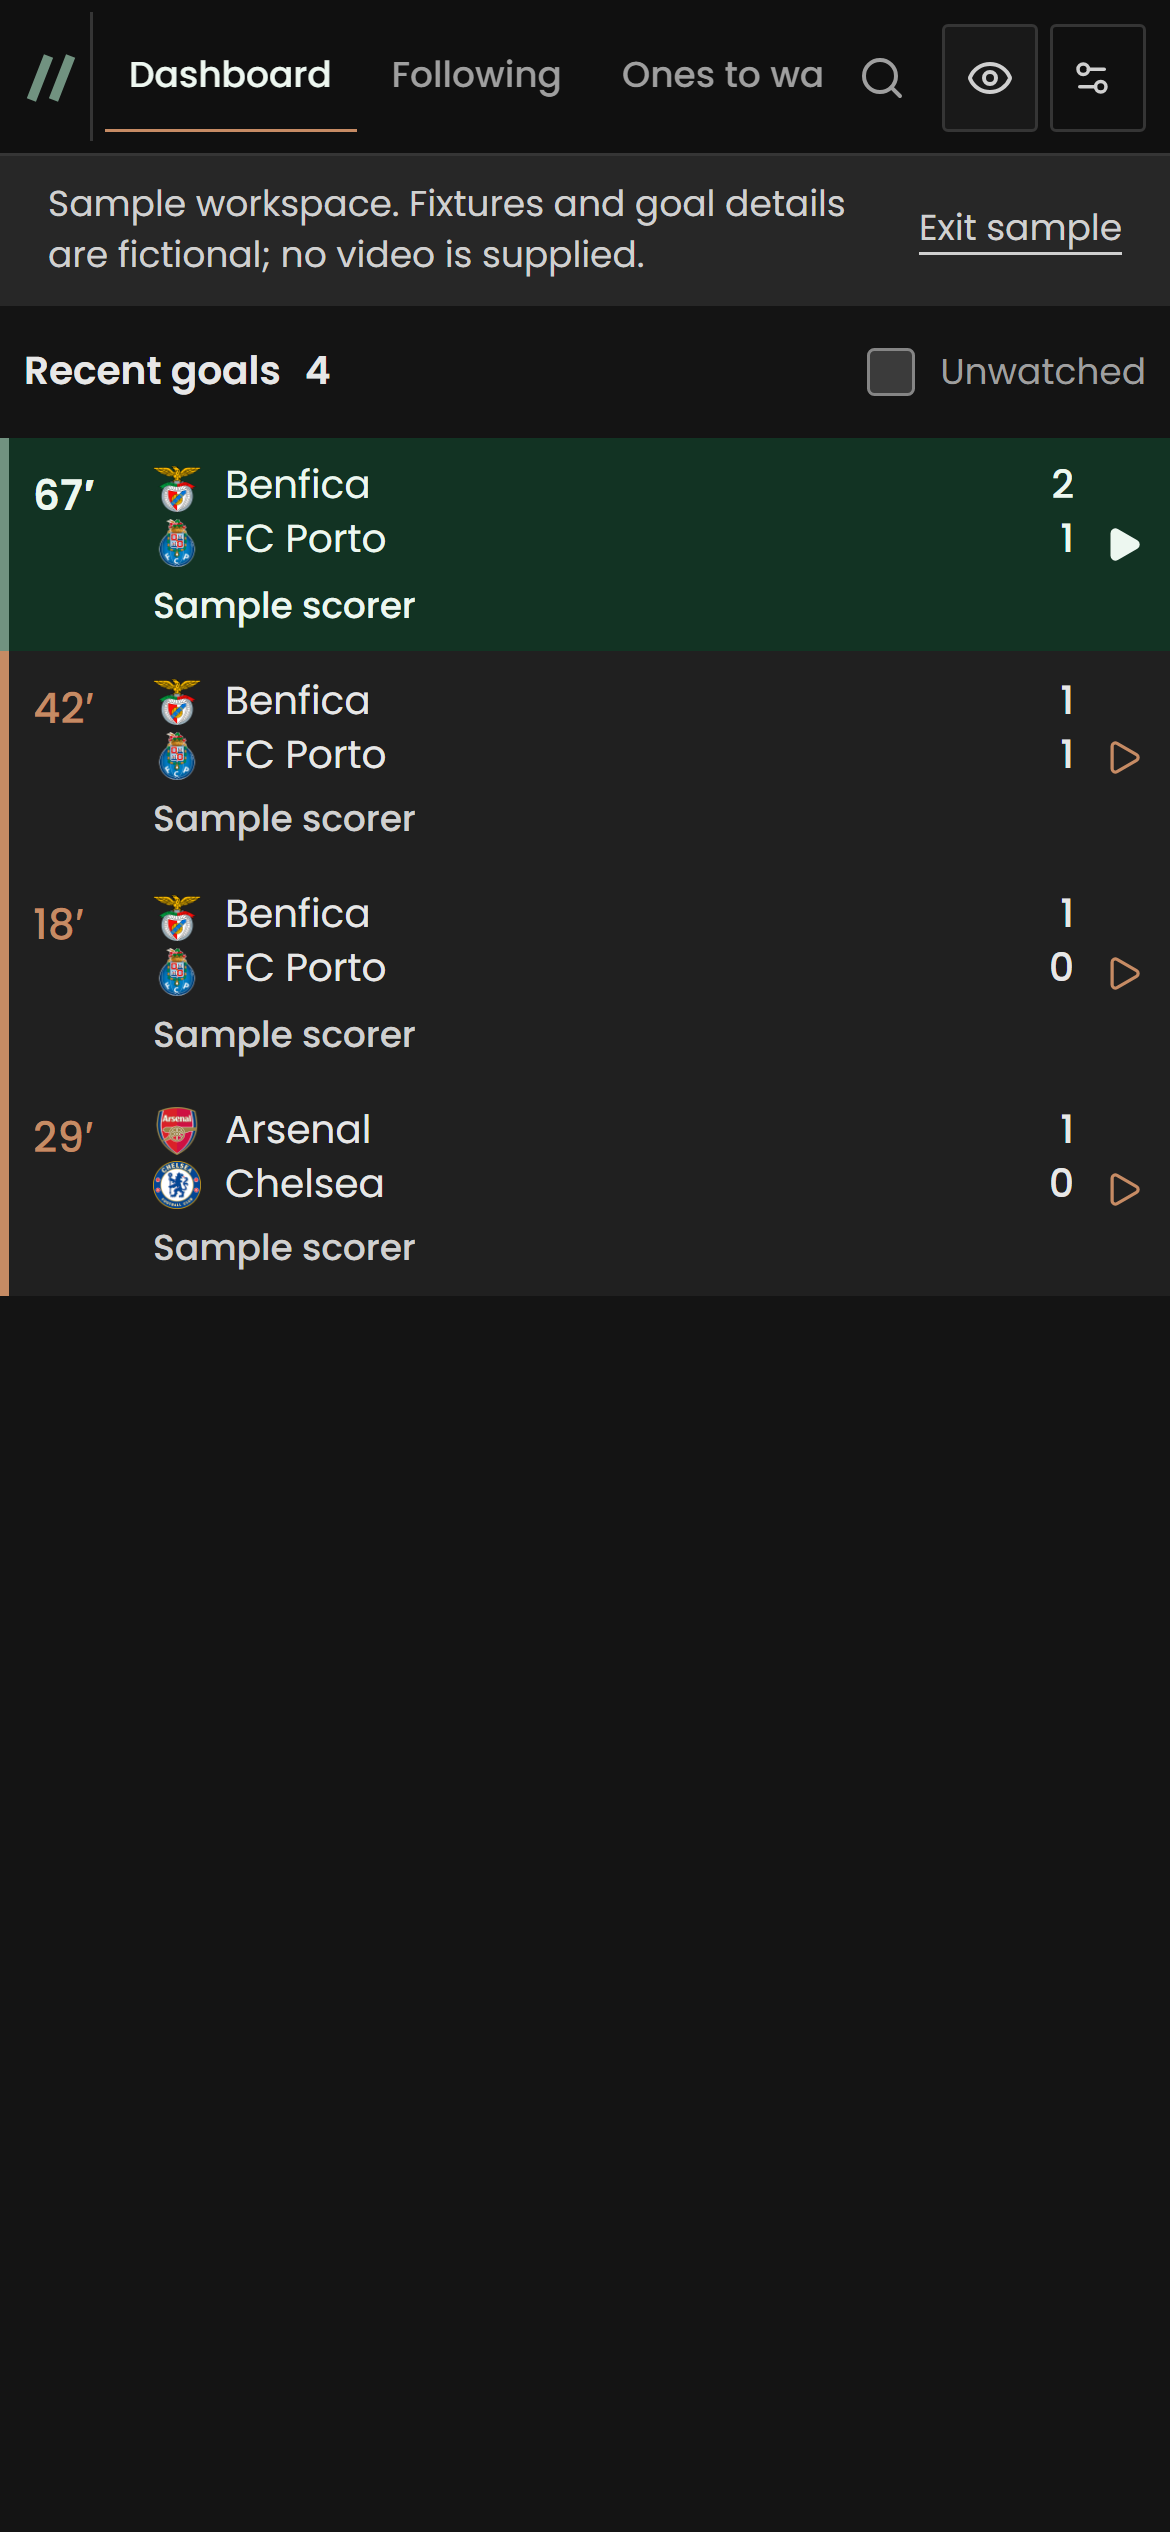
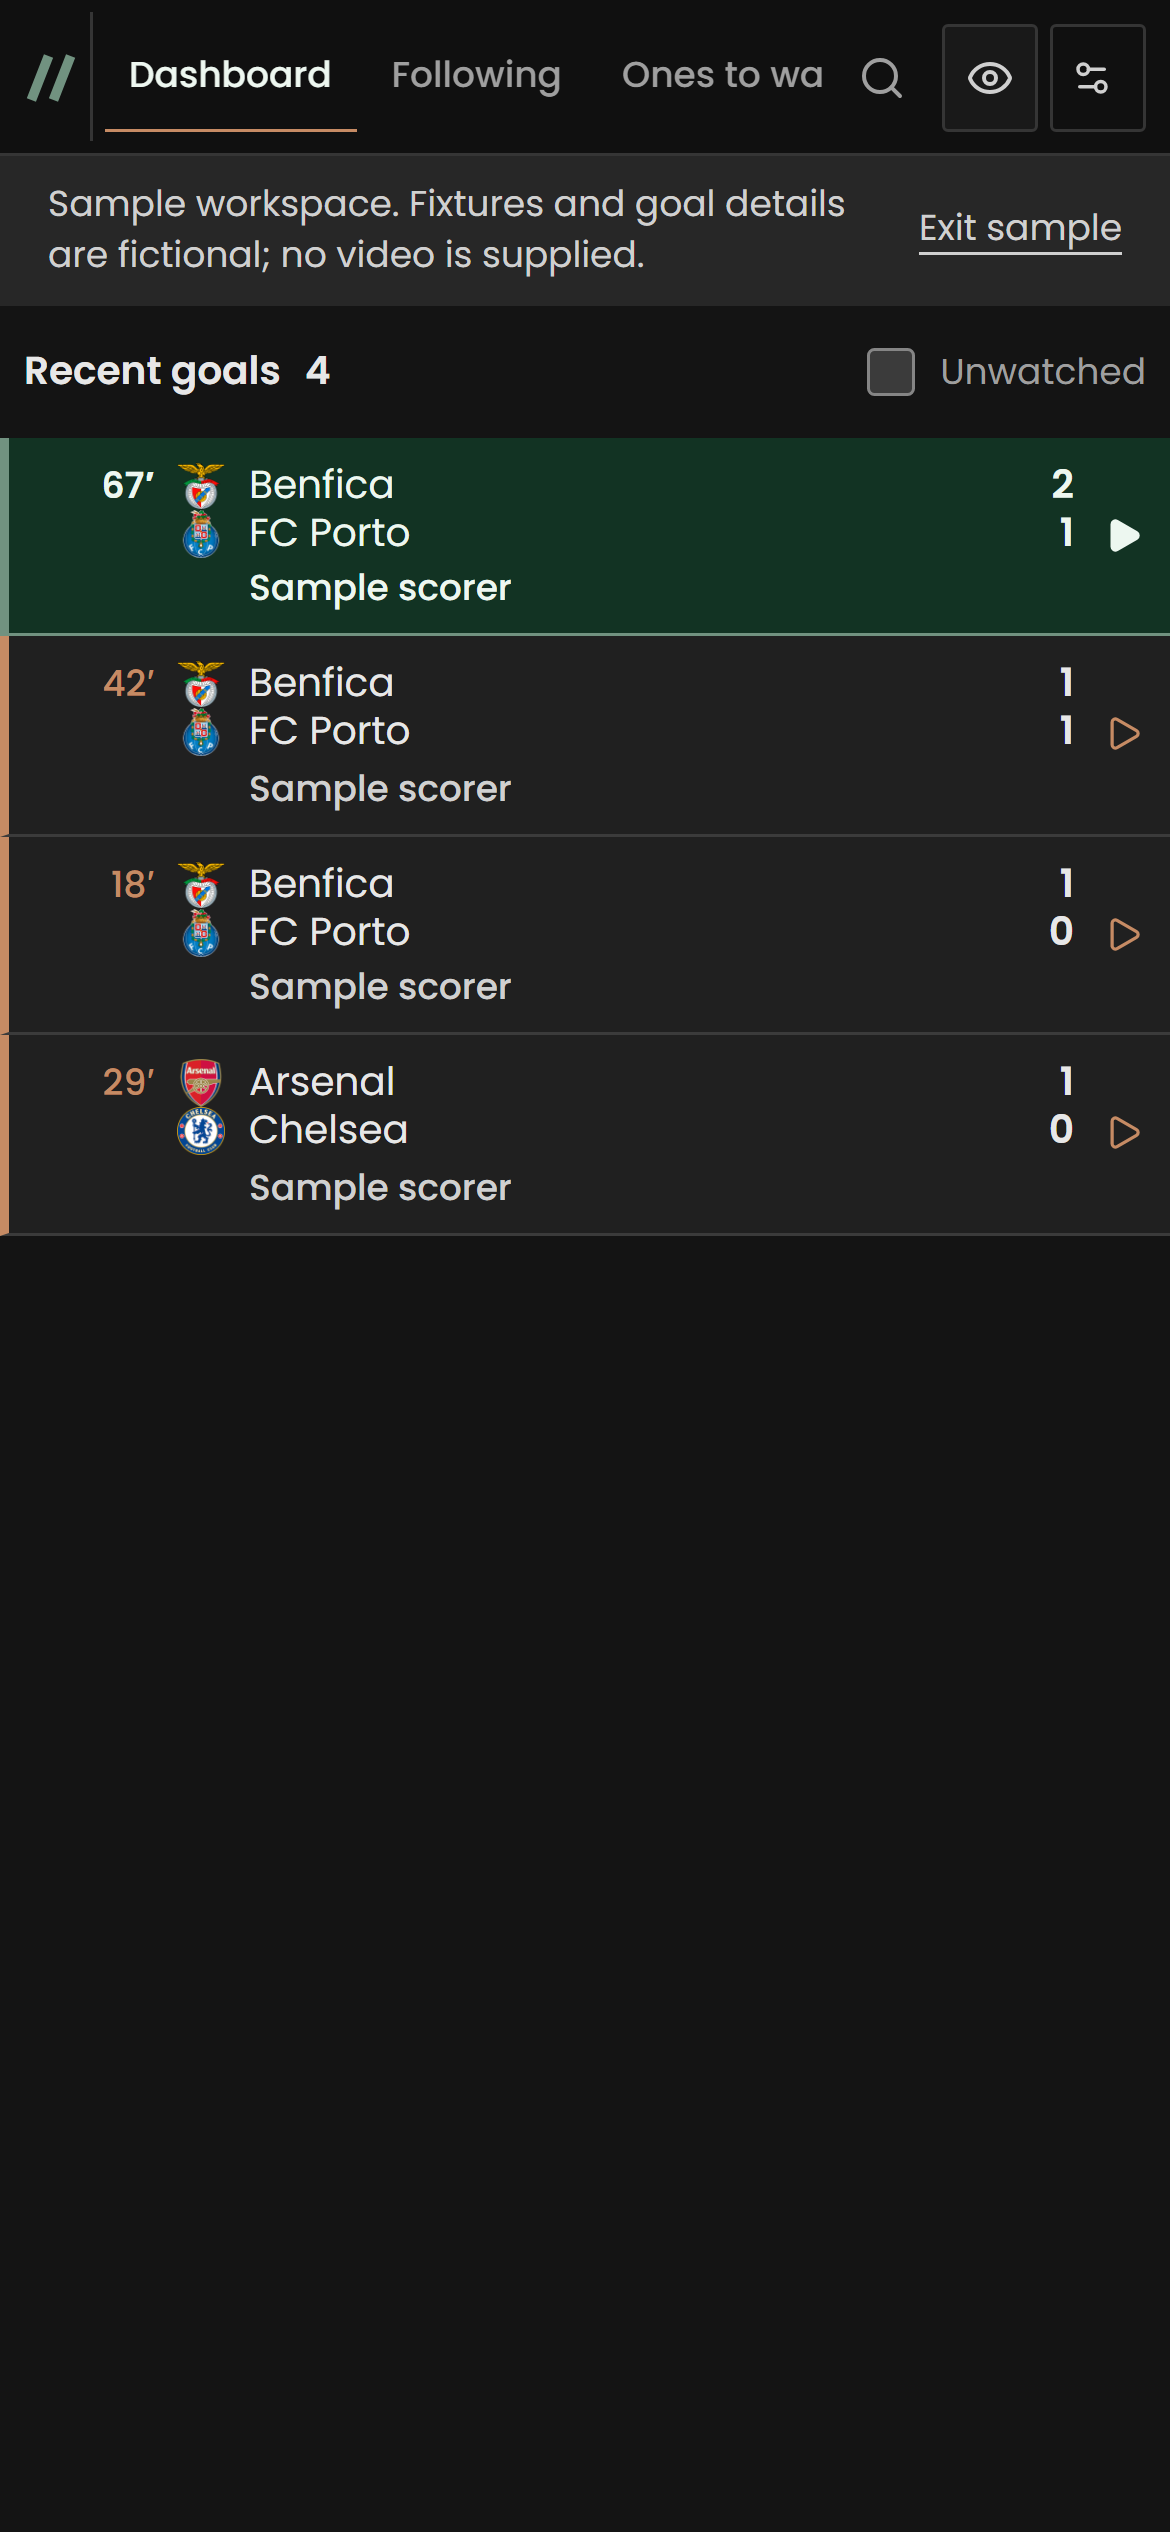
Clarify goal rows and refine matches and settings layouts

diff --git a/web/src/style.css b/web/src/style.css
@@ -3473,3 +3473,148 @@ summary:focus-visible {
     font-size: var(--text-md);
   }
 }
+
+/* Compact records: a shared score column, clear row boundaries and aligned names. */
+.goal-row {
+  border-bottom: 1px solid var(--color-row-rule);
+  align-items: flex-start;
+}
+.goal-minute {
+  width: 40px;
+  text-align: right;
+  font-size: var(--text-xs);
+  line-height: 1.4;
+  padding-top: 0;
+}
+.goal-team {
+  line-height: 1.25;
+}
+.goal-copy .team-crest {
+  height: 16px;
+}
+.goal-copy b {
+  min-width: 14px;
+  text-align: right;
+  font-weight: 600;
+}
+.goal-copy strong {
+  margin-top: var(--space-3xs);
+  padding-left: var(--space-lg);
+  font-weight: 500;
+  line-height: 1.25;
+}
+.goal-copy small {
+  padding-left: var(--space-lg);
+}
+.queue-play {
+  align-self: center;
+}
+.goal-row.selected {
+  border-bottom-color: var(--color-green-signal);
+}
+.goal-row.watched:not(.selected) {
+  border-bottom-color: var(--color-rule);
+}
+.view-teams,
+.view-sources,
+.view-matches {
+  gap: var(--space-sm);
+  padding-top: var(--space-md);
+}
+.view-teams .page-heading h1,
+.view-sources .page-heading h1,
+.view-matches .page-heading h1 {
+  font-size: 22px;
+  letter-spacing: -0.5px;
+}
+.view-teams .page-heading p,
+.view-sources .page-heading p,
+.view-matches .page-heading p {
+  margin-top: var(--space-2xs);
+  font-size: var(--text-sm);
+}
+.team-list {
+  display: grid;
+  grid-template-columns: repeat(2, minmax(0, 1fr));
+  align-content: start;
+  gap: var(--space-xs);
+}
+.team-row {
+  min-width: 0;
+  padding: var(--space-xs) var(--space-sm);
+  gap: var(--space-sm);
+  background: var(--color-feed-surface);
+  color: var(--color-ink);
+  border-bottom: 1px solid var(--color-rule);
+}
+.team-row > div {
+  min-width: 0;
+}
+.team-row h3 {
+  font-size: 14px;
+  line-height: 1.35;
+}
+.team-row .team-crest.large {
+  width: 32px;
+  height: 32px;
+  flex-basis: 32px;
+}
+.team-row .follow-button {
+  min-width: 104px;
+  flex: none;
+}
+.team-row:has(.follow-button[aria-pressed="true"]) {
+  background: var(--color-green-selected);
+}
+.matches-view .fixture {
+  border: 1px solid var(--color-rule);
+}
+.fixture-meta > span:first-child {
+  min-width: 0;
+  overflow: hidden;
+  white-space: nowrap;
+  text-overflow: ellipsis;
+}
+.fixture-meta > span:last-child {
+  white-space: nowrap;
+  flex: none;
+}
+.source-row {
+  display: grid;
+  grid-template-columns: minmax(0, 1fr) auto;
+  gap: var(--space-md);
+  padding: var(--space-sm);
+  background: var(--color-feed-surface);
+  color: var(--color-ink);
+}
+.source-list {
+  display: grid;
+  gap: var(--space-xs);
+}
+.source-row h2 {
+  font-size: var(--text-md);
+  margin-bottom: var(--space-2xs);
+}
+.source-row .connection-label {
+  align-self: start;
+  font-size: var(--text-xs);
+}
+.source-row .connection-label[data-state="connected"] {
+  background: var(--color-green-selected);
+  color: var(--color-green-ink);
+}
+@media (max-width: 760px) {
+  .team-list {
+    grid-template-columns: minmax(0, 1fr);
+  }
+  .team-row .follow-button {
+    min-width: 44px;
+  }
+  .source-row {
+    grid-template-columns: minmax(0, 1fr);
+    gap: var(--space-xs);
+  }
+  .source-row .connection-label {
+    justify-self: start;
+  }
+}

diff --git a/web/src/App.tsx b/web/src/App.tsx
@@ -844,7 +844,7 @@ export default function App() {
                   ? "Dashboard"
                   : view === "matches"
                     ? "Matches"
-                    : "Settings"}
+                    : tabs.find((tab) => tab.id === view)?.label}
             </h1>
             <p>
               {view === "goals"
@@ -852,8 +852,8 @@ export default function App() {
                 : view === "matches"
                   ? "Fixtures and matches with goal clips."
                   : view === "teams"
-                    ? "Pick your clubs. Their goals will find their way here."
-                    : "Choose where your fixtures and goal clips come from."}
+                    ? "Choose clubs for your Following feed."
+                    : "Manage match data and goal sources."}
             </p>
           </div>
         </div>
@@ -1090,7 +1090,10 @@ export default function App() {
                                           (t) => t.id === goal.homeId,
                                         )}
                                       />
-                                      <span className="goal-team-name">
+                                      <span
+                                        className="goal-team-name"
+                                        title={name(goal.homeId)}
+                                      >
                                         {name(goal.homeId)}
                                       </span>
                                       <b>
@@ -1106,7 +1109,10 @@ export default function App() {
                                           (t) => t.id === goal.awayId,
                                         )}
                                       />
-                                      <span className="goal-team-name">
+                                      <span
+                                        className="goal-team-name"
+                                        title={name(goal.awayId)}
+                                      >
                                         {name(goal.awayId)}
                                       </span>
                                       <b>
@@ -1704,7 +1710,10 @@ export default function App() {
                                 </small>
                               )}
                             </div>
-                            <span className="connection-label">
+                            <span
+                              className="connection-label"
+                              data-state={source.state}
+                            >
                               {source.state === "connected"
                                 ? "Connected"
                                 : source.state === "error"

diff --git a/web/src/tokens.css b/web/src/tokens.css
@@ -18,6 +18,7 @@
   --color-feed-surface: #141414;
   --color-feed-selected: #343434;
   --color-feed-hover: #262626;
+  --color-row-rule: #3b3b3b;
   --color-seen-surface: #0f0f0f;
   --color-seen-hover: #191919;
   --color-unseen-surface: #202020;

diff --git a/docs/design.md b/docs/design.md
@@ -9,3 +9,5 @@ Use an edge-to-edge dashboard with a 4px column separation, a compact 40px list 
 Every loading region retains loading, empty, error and full states. Only scorer changes receive a short state transition, with a reduced-motion fallback. Focus is immediate, and input edges meet 3:1 contrast. No marketing sections, fabricated statistics or decorative footage overlays.
 
 Seen state updates optimistically when a goal is opened and saves in the background. The automatically opened desktop clip is included; phone selections do not count until the player opens. Spoiler-protected goals count after reveal. Marking the open goal as unwatched stays respected until it is opened again.
+
+Goal rows use a fixed minute column, shared right-aligned scores, scorer text aligned with team names, and subtle separators. Favourites uses two columns on desktop and one on phones, with followed clubs highlighted. Matches has defined card edges. Connections separates status from provider details. Screen headings name the active Settings section.
